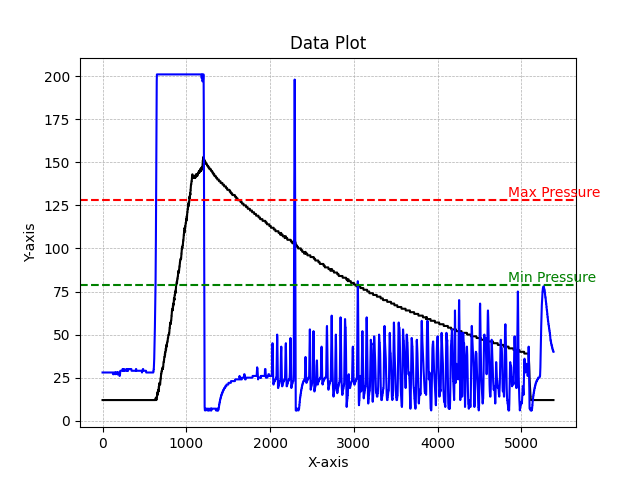
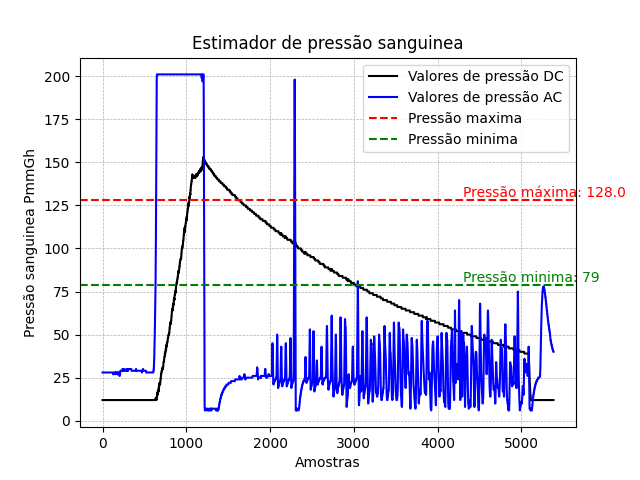
Alterações finais

diff --git a/main.py b/main.py
@@ -1,62 +1,63 @@
 import pandas as pd
 import matplotlib.pyplot as plt
 
-# Read the CSV file
-data = pd.read_csv('pressao.csv', sep=';', usecols=[0,1] ,header=0)  # Assuming the CSV file has a header
+def main():
+    # Read the CSV file
+    data = pd.read_csv('pressao.csv', sep=';', usecols=[0,1] ,header=0, names=['dc_data', 'ac_data'])  # Assuming the CSV file has a header
 
-# If the column names are different, adjust them as needed
-if 'col_1' not in data.columns or 'col_2' not in data.columns:
-    data.columns = ['col_1', 'col_2']  # Adjust the column names as needed
+    dc_data = data['dc_data']
+    ac_data = data['ac_data']
 
-data_1 = data['col_1']
-data_2 = data['col_2']
-
-data_index = len(data_1)
-initial_index = int(data_1.idxmax() + data_1.idxmax()*0.1)
-min = int(0)
-max = int(0)
-downs = int(0)
-angle = bool(False)
-i = initial_index
-
-while i < data_index:
-    if data_2[i+1] < (data_2[i]+3) and angle == False:
-        angle = True
-        downs += 1    
-        max += data_1[i]
+    data_index = len(dc_data) # The max number of samples
+    initial_index = int(dc_data.idxmax() + dc_data.idxmax() * 0.1) # The initial index to start the search
     
-    if data_2[i+1] > (data_2[i]+3) and angle == True:
-        angle = False
+    min = int(0)
+    max = int(0)
+    downs = int(0)
+    angle = bool(False)
+    
+    i = initial_index
+    while i < data_index:
+        if ac_data[i+1] < (ac_data[i] + 3) and not angle:
+            angle = True
+            downs += 1    
+            max += dc_data[i]
         
-    if downs >= 2:
-        max = max/2 
-        break
-    
-    i += 1
-    
-i = initial_index
-while i < data_index:
-    if (data_1[i] < data_2[i]):
-        if (data_2[i] < 114):
-            min = data_1[i]
+        if ac_data[i+1] > (ac_data[i] + 3) and angle:
+            angle = False
+            
+        if downs >= 2:
+            max = max / 2 
             break
-    i += 1
-print(max)    
-print(min)
+        
+        i += 1
+        
+    i = initial_index
+    while i < data_index:
+        if dc_data[i] < ac_data[i] and ac_data[i] < 114:
+            min = dc_data[i]
+            break
+        i += 1
 
-# Plot the data
-# Add circles at specific points
-plt.plot(data_1.index, data_1, color='black')
-plt.plot(data_2.index, data_2, color='blue')
-plt.axhline(y=max, color='r', linestyle='--')
-plt.axhline(y=min, color='g', linestyle='--')
-plt.text(len(data_1)*0.9, max, 'Max Pressure', color='r', ha='left', va='bottom')
-plt.text(len(data_1)*0.9, min, 'Min Pressure', color='g', ha='left', va='bottom')
-plt.xlabel('X-axis')
-plt.ylabel('Y-axis')
-plt.title('Data Plot')
-plt.grid(True, which='both', linestyle='--', linewidth=0.5)
+    print(max)    
+    print(min)
 
-# Save the plot as a PNG file
-plt.savefig('plot.png')
-plt.show()
+    # Plot the data
+    plt.plot(dc_data.index, dc_data, color='black', label='Valores de pressão DC')
+    plt.plot(ac_data.index, ac_data, color='blue', label='Valores de pressão AC')
+    plt.axhline(y=max, color='r', linestyle='--', label='Pressão maxima')
+    plt.axhline(y=min, color='g', linestyle='--', label='Pressão minima')
+    plt.text(len(dc_data) * 0.8, max, f'Pressão máxima: {max}', color='r', ha='left', va='bottom')
+    plt.text(len(dc_data) * 0.8, min, f'Pressão minima: {min}', color='g', ha='left', va='bottom')
+    plt.xlabel('Amostras')
+    plt.ylabel('Pressão sanguinea PmmGh')
+    plt.title('Estimador de pressão sanguinea')
+    plt.grid(True, which='both', linestyle='--', linewidth=0.5)
+    plt.legend()
+
+    # Save the plot as a PNG file
+    plt.savefig('plot.png')
+    plt.show()
+
+if __name__ == "__main__":
+    main()

diff --git a/README.md b/README.md
@@ -1,19 +1,42 @@
 # Prova final da matéria de Engenharia Médica.
 Projeto escrito por Christopher Akira França Maekawa para a avaliação dos conteudos ofertados na matéria de Engenharia médica ofertada pelo professor Jose Jair Alves Mendes Junior.
 
+## Proposta 
+A prova é o desenvolvimento de algoritmo, usando os sinais brutos, para determinar o valor da pressão sanguínea.
+
+## Resultado obtido
+Foi possível utilizar os dados contidos no arquivo CSV para criar um gráfico com os valores estimados de pressão máxima e pressão mínima para os dados de pacientes contidos no arquivo CSV.
+
+## Clone
+Primeiro, é necessário clonar o repositório para uma pasta de sua escolha:
+```bash
+git clone https://github.com/chrisakira/prova_eng_medica.git
+```
+Ou realizar o download do repositório diretamente do GitHub em formato zip e fazer a extração manual para a pasta de destino.
+
 ## Instalação
-Primeiro é necessario clonar o repositório para uma pasta da sua escolha.
-
-
-Para realizar a instalação é necessaria a versão do python 3.10 ou superior assim como o pip
+Para realizar a instalação, é necessária a versão do Python 3.10 ou superior, assim como o pip.
 
 ### Intalação ambiente windows 
-Para ambiente windows basta instalar a versão desejada diretamente no site oficial do python [Python](https://www.python.org/downloads/).
+Para ambiente windows, basta instalar a versão desejada diretamente no site oficial do python [Python](https://www.python.org/downloads/).
 
 ### Instalação ambiente linux
-Para ambiente linux basta instalar o python e o pip com o seguinte comando:
+Para ambiente linux, instale o python e o pip utilizando os seguintes comandos:
 ```bash
 sudo apt-get update
 sudo apt-get install python3 python3-pip
 ```
 
+### Instalação das bibliotecas
+Para instalar as bibliotecas utilizadas neste projeto, abra o terminal na raiz do projeto e execute o seguinte comando:
+```bash
+pip install -r requirements.txt
+```
+
+## Execução
+Para executar o código, insira o seu arquivo .csv a ser utilizado na raiz do projeto e, em seguida, execute o seguinte comando:
+```bash
+python3 main.py
+```
+
+O resultado será gerado na pasta raiz do projeto com o nome de "plot.png", contendo as informações solicitadas no enunciado do projeto.
